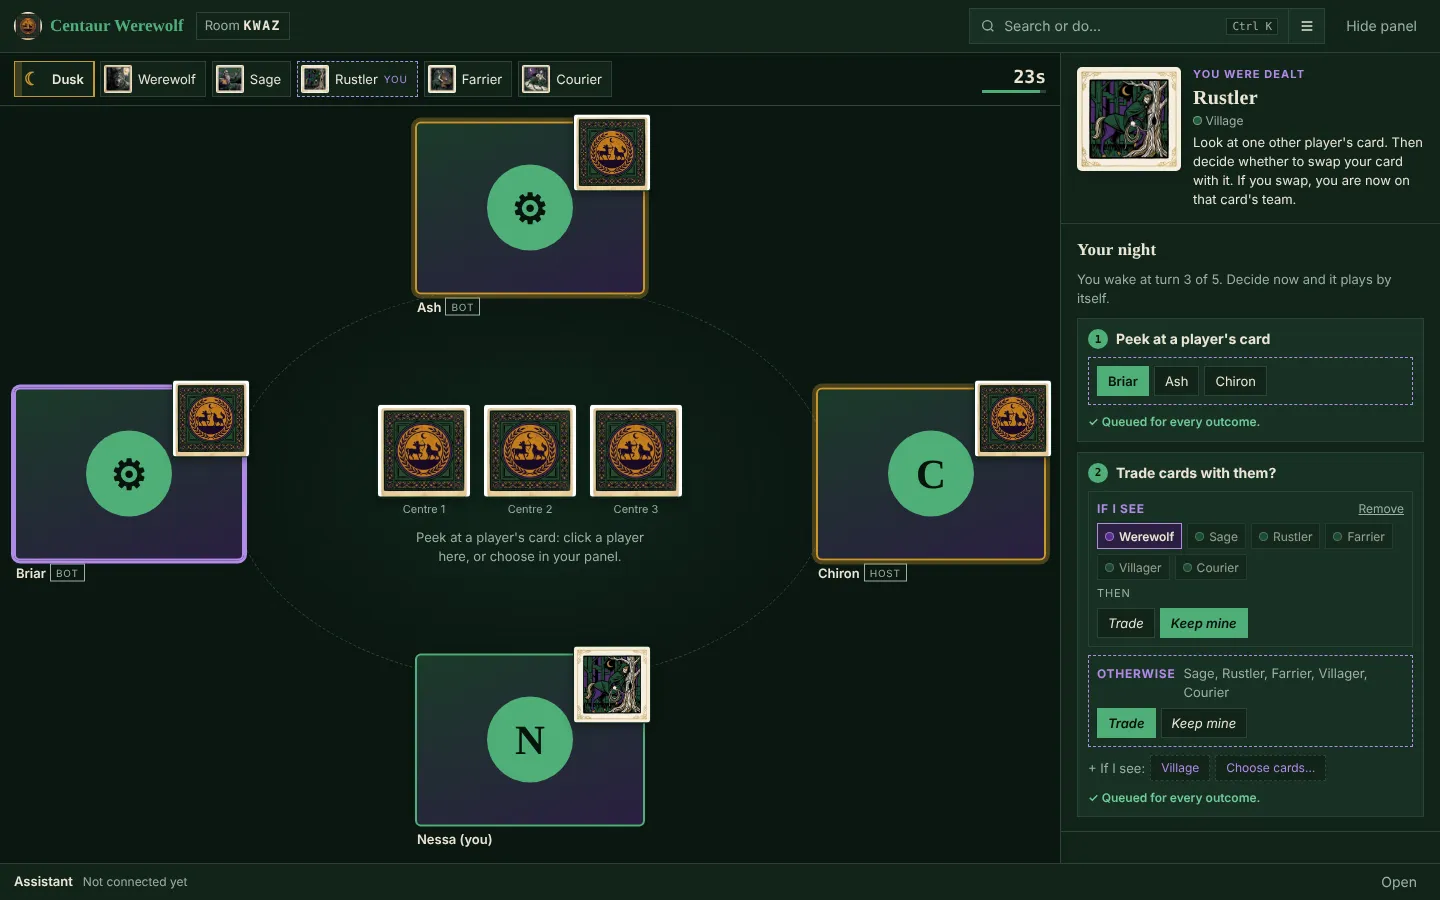
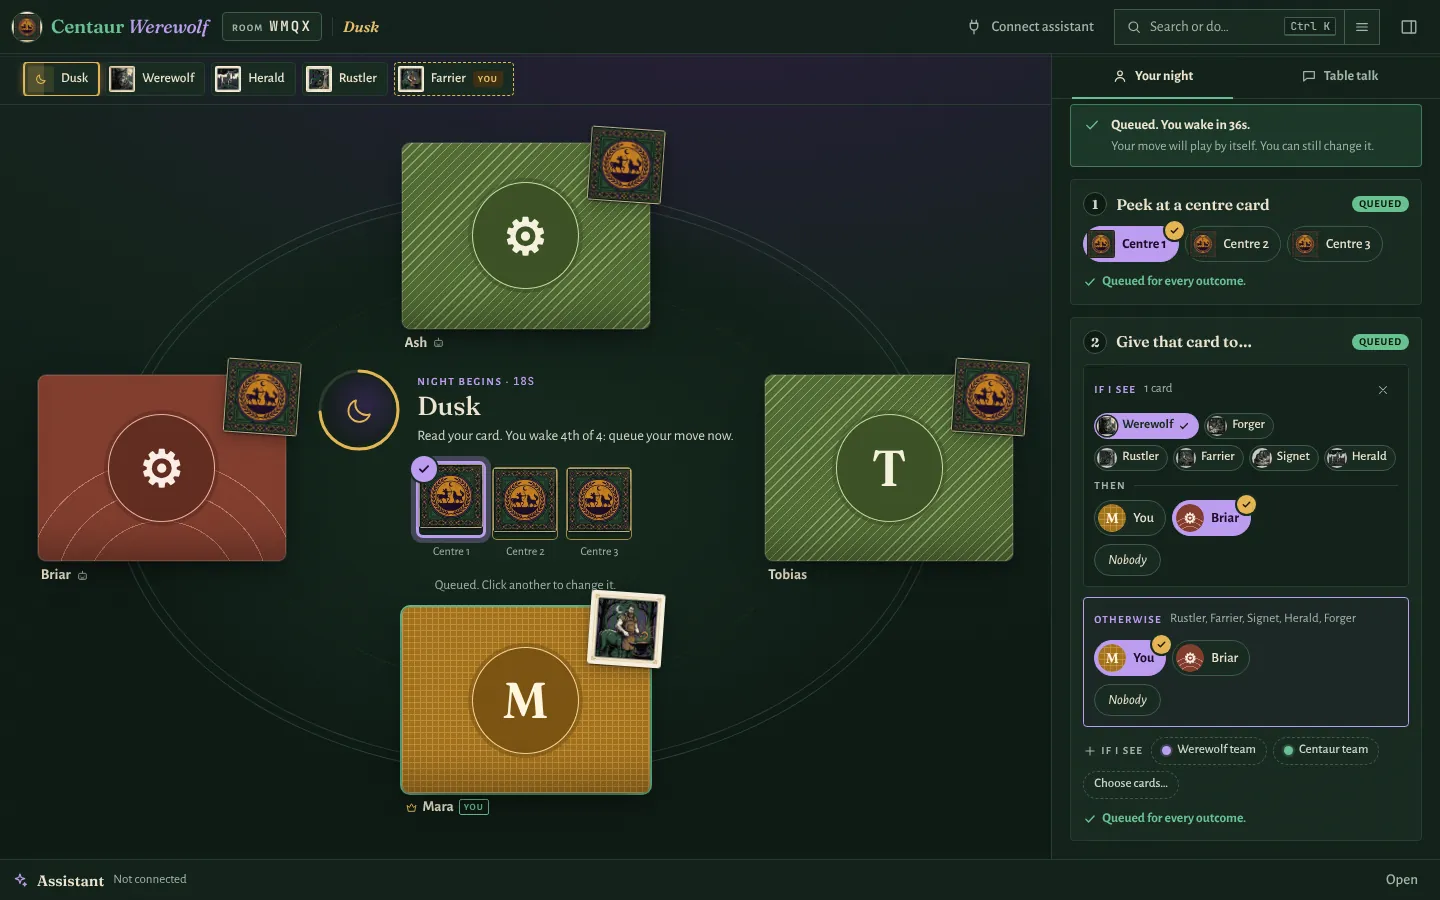
Rebuild the app UI for the new backend with a redesigned look
Printed-almanac visual identity, phase curtains, deal and reveal
animation, chat, assistant connection dialog and OAuth approve page,
multi-target plan builder, grouped deck builder, vote arrows on the
end screen, role reference.

Claude-Session: https://claude.ai/code/session_0119hWTXaa3ztb9LtnMNE2zE

diff --git a/src/components/bits.tsx b/src/components/bits.tsx
@@ -44,17 +44,17 @@ export function CommandButton({ id, args, children, variant = "plain", icon, sho
 
 export const art = (role: RoleId | null) => `/art/${role ?? "back"}.webp`;
 
-export function RoleArt({ role, size, label, className = "" }: { role: RoleId | null; size?: number; label?: string; className?: string }) {
-  return <img className={`role-art${role ? "" : " is-back"} ${className}`} src={art(role)} width={size} height={size} alt={label ?? (role ? ROLE[role].name : "Face-down card")} draggable={false} loading="lazy" decoding="async" />;
-}
-
 /**
  * A card that can be face down or face up, and turns over (a 3D flip) when its face changes from hidden to shown.
  * `role === null` is face down.
  */
-export function Card({ role, size, className = "", label, style, flipDelay = 0 }: { role: RoleId | null; size?: number | string; className?: string; label?: string; style?: CSSProperties; flipDelay?: number }) {
+export function Card({ role, size, className = "", label, style, flipDelay = 0, reveal = false }: {
+  role: RoleId | null; size?: number | string; className?: string; label?: string; style?: CSSProperties; flipDelay?: number;
+  /** Start face down and turn over once shown, even if the face is already known. */
+  reveal?: boolean;
+}) {
   const [face, setFace] = useState<RoleId | null>(role);
-  const [up, setUp] = useState(!!role);
+  const [up, setUp] = useState(!!role && !reveal);
   useEffect(() => {
     if (role) { setFace(role); const t = setTimeout(() => setUp(true), 30 + flipDelay); return () => clearTimeout(t); }
     setUp(false);
@@ -75,17 +75,12 @@ export function Card({ role, size, className = "", label, style, flipDelay = 0 }
 export function TeamBadge({ team, short }: { team: Team; short?: boolean }) {
   return <span className={`team-badge team-${team}`}><span className="team-pip" aria-hidden />{short ? (team === "lone" ? "Alone" : TEAM_NAME[team].replace(" team", "")) : TEAM_NAME[team]}</span>;
 }
-export function TeamDot({ role }: { role: RoleId }) {
-  const team = ROLE[role].team;
-  return <span className={`team-pip team-${team}`} title={TEAM_NAME[team]} aria-label={TEAM_NAME[team]} />;
-}
-
 /** The full card for a role: art, name, team and rule. */
-export function RoleCard({ role, caption, children, compact }: { role: RoleId; caption?: string; children?: ReactNode; compact?: boolean }) {
+export function RoleCard({ role, caption, children, compact, reveal }: { role: RoleId; caption?: string; children?: ReactNode; compact?: boolean; reveal?: boolean }) {
   const r = ROLE[role];
   return (
     <div className={`role-card${compact ? " is-compact" : ""}`}>
-      <Card role={role} className="role-card-art" />
+      <Card role={role} className="role-card-art" reveal={reveal} flipDelay={reveal ? 1700 : 0} />
       <div className="role-card-text">
         {caption && <div className="eyebrow">{caption}</div>}
         <h3>{r.name}</h3>
@@ -128,21 +123,4 @@ export function CountdownRing({ from, until, size = 64, children, label }: { fro
   );
 }
 
-/** Time left until `until`, as text with a thin draining bar. */
-export function Countdown({ from, until, label }: { from: number; until: number; label?: string }) {
-  const now = useNow();
-  const left = Math.max(0, until - now);
-  const frac = until > from ? left / (until - from) : 0;
-  return (
-    <div className={`countdown${left < 10000 ? " is-low" : ""}`} role="timer" aria-label={label}>
-      <span className="countdown-time">{clock(left)}</span>
-      <span className="countdown-bar"><span style={{ transform: `scaleX(${Math.min(1, frac)})` }} /></span>
-    </div>
-  );
-}
-
-export function Ordinal({ n }: { n: number }) {
-  const s = n % 100 >= 11 && n % 100 <= 13 ? "th" : (["th", "st", "nd", "rd"][n % 10] ?? "th");
-  return <>{n}{s}</>;
-}
 export const ordinal = (n: number) => `${n}${n % 100 >= 11 && n % 100 <= 13 ? "th" : (["th", "st", "nd", "rd"][n % 10] ?? "th")}`;

diff --git a/src/components/Table.tsx b/src/components/Table.tsx
@@ -14,7 +14,8 @@ import { layoutTable, type TableLayout } from "../app/layout";
 import { useApp, type Picker, type View } from "../app/store";
 import { Avatar, Card } from "./bits";
 import { CentreStage } from "./CentreStage";
-import { IconBot, IconCheck, IconCrown, IconEye } from "./icons";
+import { IconBot, IconCheck, IconCrown } from "./icons";
+import { Pin } from "./Pin";
 
 export function Table() {
   const { view, picker, exec } = useApp();
@@ -120,7 +121,7 @@ function Seat({ v, p, pos, L, legal, order, onPick, marks, bubble, awake, fresh,
         <Avatar name={p.name} bot={p.bot} />
         {game && (
           <span className={`seat-card${fresh ? " is-dealt" : ""}`} title={finalTitle ?? (role ? `You were dealt the ${ROLE[role].name}. Your card may have been moved since.` : "A face-down card")}>
-            <Card role={role} size={cardSize} flipDelay={final ? lead + 400 + dealIndex * 260 : fresh ? lead + 900 + dealIndex * 110 : 0} />
+            <Card role={role} size={cardSize} reveal={fresh} flipDelay={final ? lead + 400 + dealIndex * 260 : fresh ? lead + 900 + dealIndex * 110 : 0} />
             {final && final.dealt[p.seat] !== final.cards[p.seat] && <span className="seat-card-was" title={`Dealt ${roleName(final.dealt[p.seat])}`}><img src={`/art/${final.dealt[p.seat]}.webp`} alt="" /></span>}
           </span>
         )}
@@ -134,7 +135,7 @@ function Seat({ v, p, pos, L, legal, order, onPick, marks, bubble, awake, fresh,
         {myVote && <span className="seat-myvote">Your vote</span>}
         {chosen && <span className="pick-badge">{ordered ? order + 1 : <IconCheck size={14} strokeWidth={3} />}</span>}
         {dead && <span className="seat-stamp">Eliminated</span>}
-        {bubble && <span key={bubble.id} className="caption" role="presentation">{bubble.text.length > 120 ? `${bubble.text.slice(0, 118)}…` : bubble.text}</span>}
+        {bubble && <span key={bubble.id} className={`caption${marks.length ? " is-up" : ""}`} role="presentation">{bubble.text.length > 120 ? `${bubble.text.slice(0, 118)}…` : bubble.text}</span>}
         {final && final.outcome.tally[p.seat] > 0 && <span className="seat-tally" title={`${final.outcome.tally[p.seat]} vote${final.outcome.tally[p.seat] === 1 ? "" : "s"}`}>{final.outcome.tally[p.seat]}</span>}
       </span>
       <span className="seat-bar">
@@ -150,16 +151,6 @@ function Seat({ v, p, pos, L, legal, order, onPick, marks, bubble, awake, fresh,
   return legal
     ? <button type="button" className={cls} style={style} onClick={onPick} aria-pressed={chosen} aria-label={`${chosen ? "Chosen: " : "Choose "}${label}`}>{body}</button>
     : <div className={cls} style={style} role="group" aria-label={label}>{body}</div>;
-}
-
-export function Pin({ m }: { m: Marker }) {
-  return (
-    <span className={`pin pin-${m.tone}${m.team ? ` team-${m.team}` : ""}`} title={m.title}>
-      {m.role ? <img src={`/art/${m.role}.webp`} alt="" /> : m.tone === "shown" ? <IconEye size={11} /> : <span className="pin-dot" />}
-      {m.tone === "shown" && m.role && <IconEye size={11} />}
-      <span>{m.label}</span>
-    </span>
-  );
 }
 
 /** Short speech bubbles by a seat when that player posts in the chat. */

diff --git a/sim/deal-check.ts b/sim/deal-check.ts
@@ -1,16 +1,16 @@
 /**
  * Measures the server's deal: opens and starts tables through the app's own commands (no agents), reads each seat's
  * dealt card from that player's own view, and compares where cards land with a uniform shuffle.
- *   npx tsx sim/deal-check.ts [tables = 200] [outFile]
+ *   npx tsx sim/deal-check.ts [tables = 200] [outFile] [--mcp]
  * Half the tables list the deck with the wolves first (as tables.ts does), half with the wolves last, so a bias that
  * follows deck position shows up as a difference between the halves. Also records the seating (join order → seat)
  * and whether whole deals repeat (a fixed seed would repeat them).
  * The rooms are left to finish by themselves (very short timers, forced random play).
  */
 import { writeFileSync } from "node:fs";
-import { run, token, view } from "./lib";
+import { run, token, tool, view } from "./lib";
 
-const N = Number(process.argv[2] ?? 200), outFile = process.argv[3];
+const N = Number(process.argv[2] ?? 200), outFile = process.argv[3], VIA_MCP = process.argv.includes("--mcp"); // --mcp: start through the MCP game_start tool, as agents do
 const DECK = ["werewolf", "werewolf", "sage", "centaur", "centaur", "herald", "herder", "sentry"]; // round1 deck A
 const PLAYERS = 5, NAMES = ["P0", "P1", "P2", "P3", "P4"];
 const rows: { order: string; deckOrder: string[]; dealt: string[]; center: string[]; seating: number[] }[] = [];
@@ -26,7 +26,8 @@ for (let n = 0; n < N; n++) {
   for (const role of deckOrder) await run("setup.addRole", toks[0], code, { role });
   for (const [timer, seconds] of Object.entries({ dusk: 5, turn: 5, day: 30 })) await run("setup.setTimer", toks[0], code, { timer, seconds });
   const stored = (await view(code, toks[0]))!.settings.deck as string[];
-  await run("game.start", toks[0], code);
+  if (VIA_MCP) await tool(((await run("connect.createKey", toks[0], code, { permission: "host", label: "deal-check" })) as { key: string }).key, "game_start");
+  else await run("game.start", toks[0], code);
   const dealt: string[] = Array(PLAYERS), seating: number[] = Array(PLAYERS);
   for (let i = 0; i < PLAYERS; i++) { const v = (await view(code, toks[i]))!; const mine = v.game!.mine!; dealt[mine.seat] = mine.dealt; seating[mine.seat] = i; }
   const center = [...stored]; for (const d of dealt) center.splice(center.indexOf(d), 1);

diff --git a/src/components/CentreStage.tsx b/src/components/CentreStage.tsx
@@ -9,7 +9,7 @@ import type { Marker } from "../app/knowledge";
 import { useApp, useNow, type Picker } from "../app/store";
 import { Card, CommandButton, CountdownRing, ordinal } from "./bits";
 import { IconCheck, IconEye, IconMoon, IconSun } from "./icons";
-import { Pin } from "./Table";
+import { Pin } from "./Pin";
 
 interface Props { w: number; h: number; pick: Picker | null; legal(s: Slot): boolean; order(s: Slot): number; markers: Record<string, Marker[]>; fresh: boolean; lead: number }
 
@@ -28,10 +28,11 @@ export function CentreStage({ w, h, pick, legal, order, markers, fresh, lead }: 
   const needCards = rowsWanted * (60 + capH + 6) + pinRows * 22 + hintH + (compact ? 6 : 18);
   const stageH = Math.round(Math.max(compact ? 48 : 64, Math.min(compact ? 64 : 150, h * (final ? 0.42 : 0.4), h - needCards)));
   const room = h - stageH - hintH - pinRows * 22 - (compact ? 6 : 18);
-  const oneRow = Math.min((w - (perRow1 - 1) * 8) / perRow1, room - capH - 6);
-  const twoRow = Math.min((w - (perRow2 - 1) * 8) / perRow2, (room - 14) / 2 - capH - 6);
-  const rows = count > 3 && twoRow > oneRow * 1.15 ? 2 : 1;
-  const cardSize = Math.max(28, Math.floor(Math.min(final ? 104 : 96, rows === 1 ? oneRow : twoRow)));
+  const gapX = compact ? 6 : 10;
+  const oneRow = Math.min((w - (perRow1 - 1) * gapX) / perRow1, room - capH - 6);
+  const twoRow = Math.min((w - (perRow2 - 1) * gapX) / perRow2, (room - 10) / 2 - capH - 6);
+  const rows = count > 3 && (twoRow > oneRow * 1.15 || (compact && count > 4)) ? 2 : 1;
+  const cardSize = Math.max(22, Math.floor(Math.min(final ? 104 : 96, rows === 1 ? oneRow : twoRow)));
 
   if (!game) return <LobbyCentre w={w} h={h} />;
   return (

diff --git a/src/styles/table.css b/src/styles/table.css
@@ -27,7 +27,6 @@
 .felt::after { inset: 15%; border-style: dashed; opacity: .55; }
 .table.is-awake::before { content: ""; position: absolute; inset: 0; z-index: 0; pointer-events: none; background: radial-gradient(70% 60% at 50% 60%, color-mix(in srgb, var(--amber) 16%, transparent), transparent 70%); animation: awake-glow 2.6s ease-in-out infinite; }
 @keyframes awake-glow { 50% { opacity: .55; } }
-.table-hint { position: absolute; left: 50%; bottom: 8px; transform: translateX(-50%); z-index: 6; margin: 0; padding: 5px 12px; font-size: 13.5px; background: var(--ink); color: var(--paper); border-radius: 15px; white-space: nowrap; max-width: calc(100% - 24px); overflow: hidden; text-overflow: ellipsis; box-shadow: var(--shadow-2); animation: toast-in .3s var(--ease-out); pointer-events: none; }
 
 /* ── seats ── */
 .seat { position: absolute; transform: translate(-50%, -50%); z-index: 3; display: flex; flex-direction: column; align-items: stretch; padding: 0; border: 0; background: none; text-align: left; color: inherit; font: inherit; transition: transform var(--t) var(--ease-out), z-index 0s; }
@@ -190,3 +189,5 @@ button.centre-card { cursor: pointer; }
 .seat.is-small .seat-bar { justify-content: center; }
 .table.is-settled .stage-hint { background: transparent; border-color: transparent; color: var(--muted); }
 .now .eyebrow { display: block; white-space: nowrap; }
+.caption.is-up { bottom: auto; top: 6px; right: calc(var(--csz) * .9); }
+.stage-col.is-compact .centre-cards { gap: 6px; }

diff --git a/src/components/PlanBuilder.tsx b/src/components/PlanBuilder.tsx
@@ -98,7 +98,7 @@ function StepResults({ results, v, seat, step }: { results: LogEntry[]; v: View;
         const seen = e.ev.kind === "look" && e.ev.roles ? e.ev.roles : e.ev.kind === "announce" ? e.ev.roles : null;
         return (
           <div key={k} className="result">
-            {seen && <span className="result-cards">{seen.map((r, j) => <Card key={j} role={r} size={54} flipDelay={150 + j * 200} />)}</span>}
+            {seen && <span className="result-cards">{seen.map((r, j) => <Card key={j} role={r} size={54} reveal flipDelay={150 + j * 200} />)}</span>}
             <p>{describe(e, v, seat)}{viaLabel(e) && <span className="via"> · {viaLabel(e)}</span>}</p>
           </div>
         );
@@ -194,7 +194,7 @@ function StepEditor({ v, role, step, outcomes, shape, publish, live }: { v: View
     <div className={`editor${live ? " is-live" : ""}`}>
       {seen && (
         <div className="seen">
-          <span className="result-cards">{seen.map((r, j) => <Card key={j} role={r} size={54} flipDelay={150} />)}</span>
+          <span className="result-cards">{seen.map((r, j) => <Card key={j} role={r} size={54} reveal flipDelay={150} />)}</span>
           <p>You saw <b>{seen.map(roleName).join(", ")}</b>. {live ? "Decide now." : "Your move for this is below."}</p>
         </div>
       )}

diff --git a/src/styles/base.css b/src/styles/base.css
@@ -199,13 +199,6 @@ kbd { font: 500 11px/1 var(--mono); border: 1px solid var(--line-strong); border
 .ring-body { position: absolute; inset: 7px; border-radius: 50%; overflow: hidden; display: grid; place-items: center; color: var(--amber); background: color-mix(in srgb, var(--card) 70%, transparent); }
 .ring-body img { width: 100%; height: 100%; object-fit: cover; transform: scale(1.18); }
 
-.countdown { display: flex; flex-direction: column; align-items: flex-end; gap: 3px; min-width: 72px; }
-.countdown-time { font: 600 18px var(--mono); font-variant-numeric: tabular-nums; }
-.countdown-bar { width: 72px; height: 3px; background: var(--line); overflow: hidden; }
-.countdown-bar span { display: block; height: 100%; background: var(--primary); transform-origin: left; transition: transform .25s linear; }
-.countdown.is-low .countdown-time { color: var(--danger); }
-.countdown.is-low .countdown-bar span { background: var(--danger); }
-
 @media (prefers-reduced-motion: reduce) {
   *, *::before, *::after { animation-duration: .01ms !important; animation-iteration-count: 1 !important; transition-duration: .01ms !important; scroll-behavior: auto !important; }
 }

diff --git a/src/app/layout.ts b/src/app/layout.ts
@@ -17,7 +17,9 @@ export function layoutTable(W: number, H: number, n: number, viewer: number, opt
   let fallback: TableLayout | null = null;
   for (let tw = maxTw; tw >= 56; tw -= 4) {
     const th = tw * 0.75, bw = tw, bh = th + nameH;
-    const rx = W / 2 - bw / 2 - pad, ry = H / 2 - bh / 2 - pad;
+    // Room for the card on each tile's corner and for a tile growing when hovered or speaking.
+    const over = tw * 0.12;
+    const rx = W / 2 - bw / 2 - pad - over, ry = H / 2 - bh / 2 - pad - over;
     if (rx < 30 || ry < 30) continue;
     const seats: SeatBox[] = [];
     for (let i = 0; i < n; i++) {

diff --git a/src/components/Pin.tsx b/src/components/Pin.tsx
@@ -1,0 +1,13 @@
+/** What you know about a card, pinned to it on the table: "Saw Werewolf", "Moved", "Shown Herald". */
+import type { Marker } from "../app/knowledge";
+import { IconEye } from "./icons";
+
+export function Pin({ m }: { m: Marker }) {
+  return (
+    <span className={`pin pin-${m.tone}${m.team ? ` team-${m.team}` : ""}`} title={m.title}>
+      {m.role ? <img src={`/art/${m.role}.webp`} alt="" /> : m.tone === "shown" ? <IconEye size={11} /> : <span className="pin-dot" />}
+      {m.tone === "shown" && m.role && <IconEye size={11} />}
+      <span>{m.label}</span>
+    </span>
+  );
+}

diff --git a/src/components/icons.tsx b/src/components/icons.tsx
@@ -36,4 +36,3 @@ export const IconMinus = (p: P) => <Icon {...p}><path d="M5 12h14" /></Icon>;
 export const IconLink = (p: P) => <Icon {...p}><path d="M10 14a4 4 0 0 0 5.7 0l3-3a4 4 0 0 0-5.7-5.7l-1 1M14 10a4 4 0 0 0-5.7 0l-3 3a4 4 0 0 0 5.7 5.7l1-1" /></Icon>;
 export const IconWarn = (p: P) => <Icon {...p}><path d="M12 4 2.5 20h19L12 4ZM12 10v4.5M12 17.5h.01" /></Icon>;
 export const IconUndo = (p: P) => <Icon {...p}><path d="M9 14 4 9l5-5" /><path d="M4 9h10a6 6 0 0 1 0 12h-3" /></Icon>;
-export const IconFlag = (p: P) => <Icon {...p}><path d="M5 21V4M5 4h11l-2 4 2 4H5" /></Icon>;

diff --git a/src/components/SidePanel.tsx b/src/components/SidePanel.tsx
@@ -82,7 +82,7 @@ function Night({ v }: { v: View }) {
   return (
     <div className="panel">
       <section className="panel-hero">
-        <RoleCard role={mine.dealt} caption="You were dealt">
+        <RoleCard role={mine.dealt} caption="You were dealt" reveal={game.turn === 0 && Date.now() - game.turns[0].startsAt < 4000}>
           <p className="role-when">{role.steps && myTurn > 0 ? <>You wake <b>{ordinal(myTurn)}</b> of {game.turns.length - 1} turns.</> : "You sleep through the night."}</p>
         </RoleCard>
       </section>
